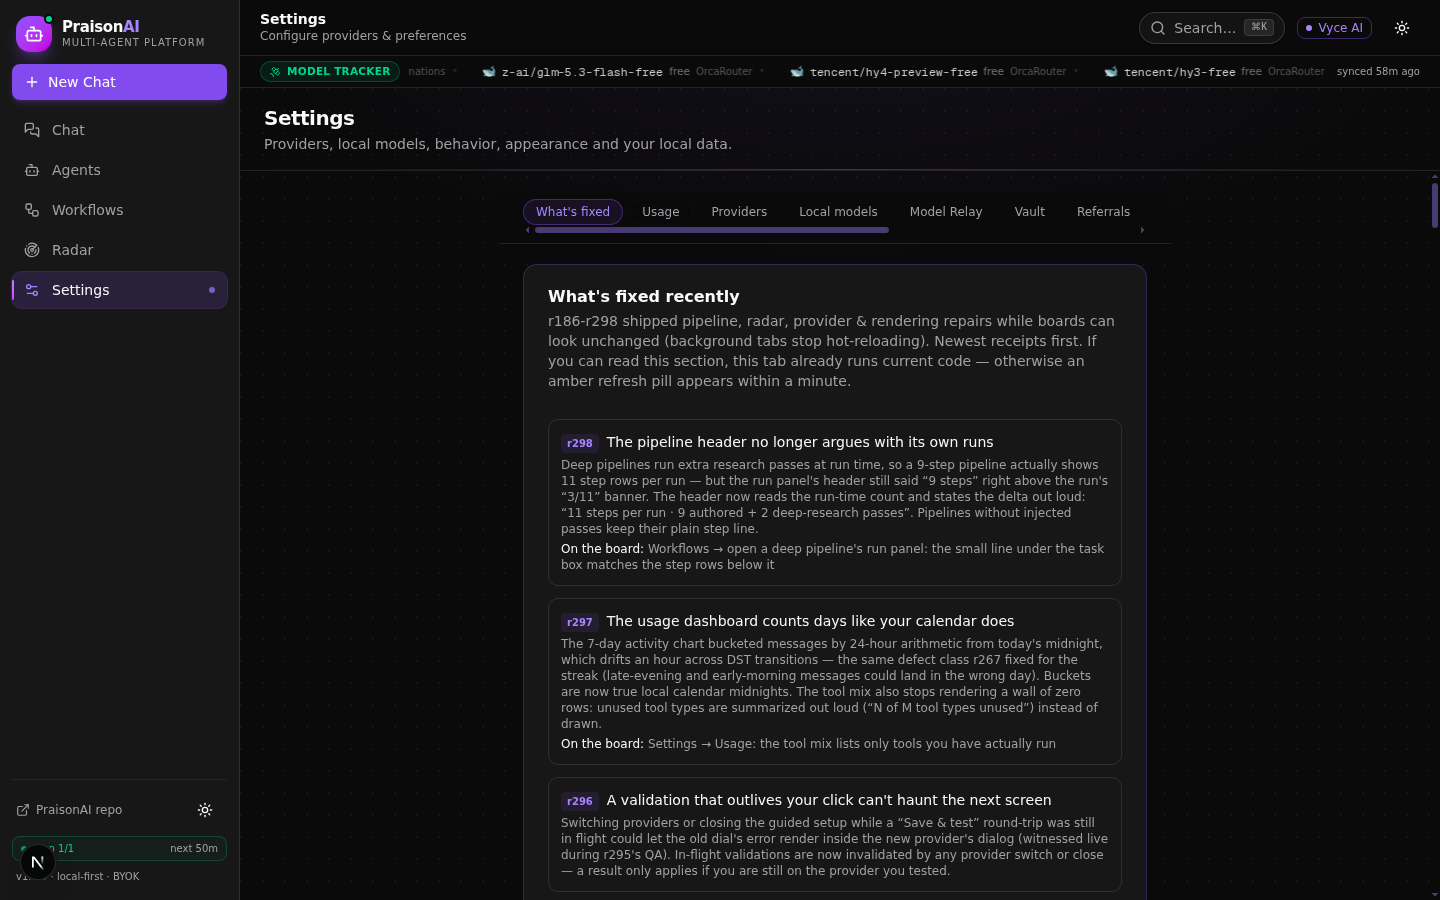
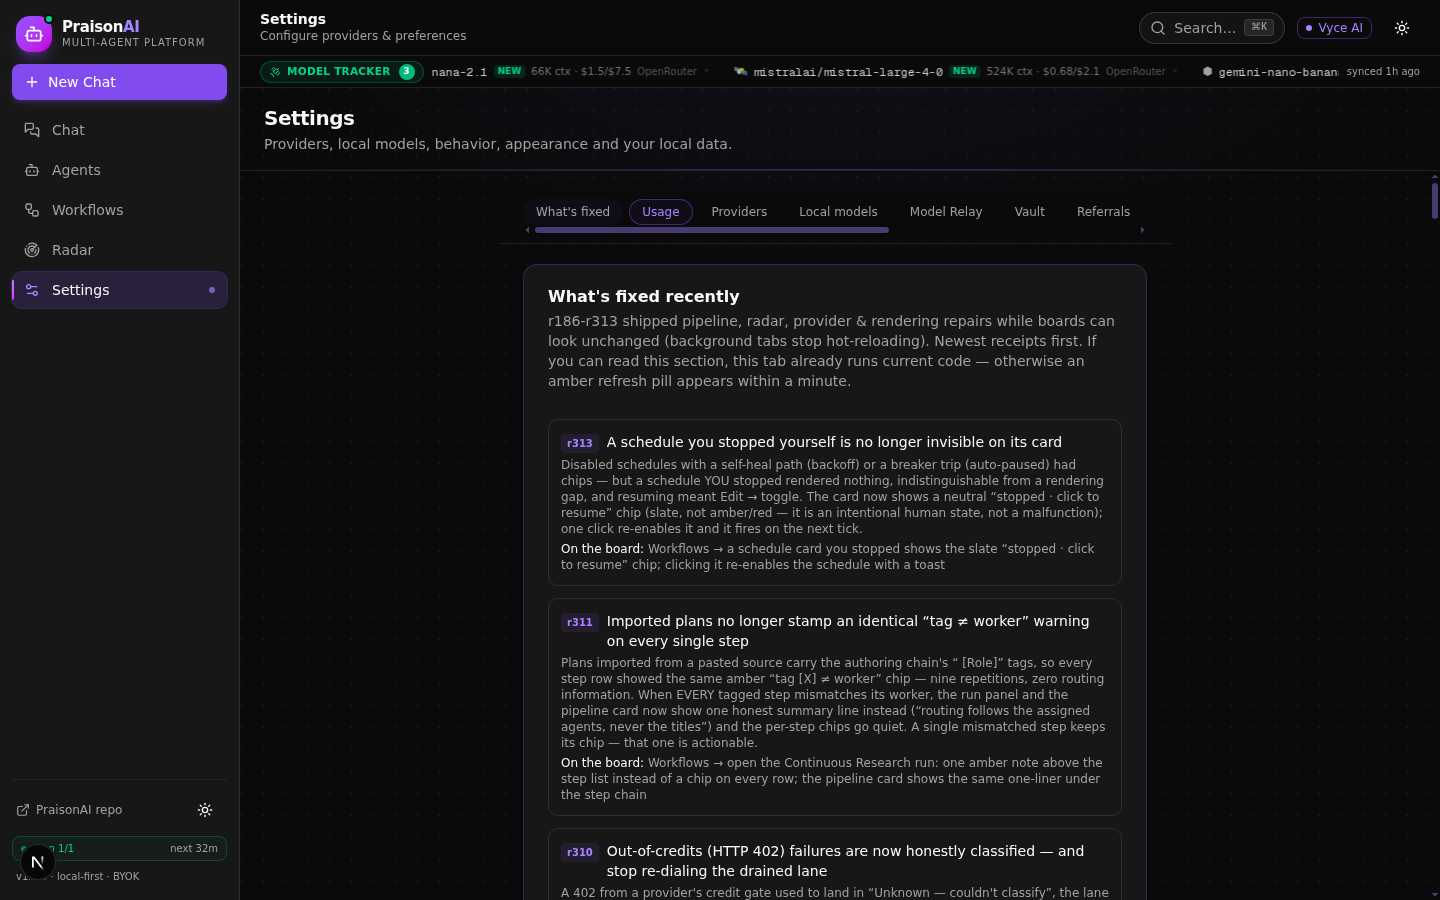
snapshot: 2026-10-07T01:28:48Z auto-backup

diff --git a/src/components/praison/workflows/workflows-view.tsx b/src/components/praison/workflows/workflows-view.tsx
@@ -1990,6 +1990,29 @@ export function WorkflowsView() {
                           auto-paused · click to resume
                         </button>
                       )}
+                      {wf.schedule && !wf.schedule.enabled && wf.schedule.autoResumeAt == null && (wf.schedule.failStreak ?? 0) < 2 && (
+                        // r313: the USER-stopped state — disabled with no
+                        // self-heal path and no breaker trip. Before this chip
+                        // the card was silent here: nothing distinguished
+                        // "stopped on purpose" from "is this broken?", and
+                        // resuming meant Edit → toggle. Same one-click resume
+                        // handler as the backoff/auto-paused chips; neutral
+                        // slate tone = intentional human state, not a
+                        // malfunction (amber self-heals, red is the breaker).
+                        <button
+                          type="button"
+                          onClick={(e) => {
+                            e.stopPropagation();
+                            resumeSchedule(wf);
+                          }}
+                          title="Stopped — this schedule is disabled and nothing fires until you resume it. Click to resume: it re-enables and fires on the next 10s tick while the tab is open."
+                          data-testid="stopped-schedule-chip"
+                          className="inline-flex cursor-pointer items-center gap-1.5 rounded-full border border-zinc-500/40 bg-zinc-500/10 px-2 py-0.5 text-[10px] font-medium text-zinc-600 transition-colors hover:bg-zinc-500/20 dark:text-zinc-300"
+                        >
+                          <PauseCircle className="h-3 w-3" />
+                          stopped · click to resume
+                        </button>
+                      )}
                       <Button size="sm" onClick={() => openRun(wf)}>
                         <Play className="h-3.5 w-3.5" />
                         Run

diff --git a/src/components/praison/settings/whats-fixed.tsx b/src/components/praison/settings/whats-fixed.tsx
@@ -295,6 +295,14 @@ const FIXES: FixNote[] = [
     lookFor:
       "Workflows → open the Continuous Research run: one amber note above the step list instead of a chip on every row; the pipeline card shows the same one-liner under the step chain",
   },
+  {
+    round: "r313",
+    title: "A schedule you stopped yourself is no longer invisible on its card",
+    detail:
+      "Disabled schedules with a self-heal path (backoff) or a breaker trip (auto-paused) had chips — but a schedule YOU stopped rendered nothing, indistinguishable from a rendering gap, and resuming meant Edit → toggle. The card now shows a neutral “stopped · click to resume” chip (slate, not amber/red — it is an intentional human state, not a malfunction); one click re-enables it and it fires on the next tick.",
+    lookFor:
+      "Workflows → a schedule card you stopped shows the slate “stopped · click to resume” chip; clicking it re-enables the schedule with a toast",
+  },
 ];
 
 // r294: the covered range is DERIVED from FIXES (first → last entry) instead

diff --git a/worklog.md b/worklog.md
@@ -8333,3 +8333,31 @@ Verification result: PASS
 Open risks: carried: clipboard SUCCESS toast inferred; r241 markdown external-image CSP; Chrome Ctrl+1-8; ZAI abort gap (r251); vault consume round-trip live-unverified; git push fork 128 environmental; 8 lib modules still "use client" (policed by qa-iso-boundary); orca credit drain is the user's live constraint (top up or save a second non-orca key). New: regenerate/edit-resend/answer-as INTERACTION paths have no dedicated suite — the dep change is identity-only and tsc-clean, but a manual click-through is cheap insurance; UserBubble remains unmemoized (now measurable with the probe if ever worth it).
 Blockers: none
 Next recommended action: r313 — (1) FIRST read any user report. (2) Verify HEAD lineage (expect the r312 snapshot or successor). (3) If a run failed, confirm the recovery card names its real class (billing/timeout/network). (4) Otherwise ONE small item, rotate surface: (a) Morning Briefing card stopped-vs-failed resume affordance (carried twice); (b) r293 perf instrumentation follow-up if user reports chat jank (probe now exists); (c) docs pass on a non-LOCAL_AUTOMATION doc. (5) Standing: qa:tsc + CANONICAL bun run lint; worklog append BEFORE snapshot; no ternary-statement asserts; receipts for user-visible changes; SMALL commands.
+
+## r313 — stopped-schedule affordance: the "you stopped this yourself" card is no longer silent (2026-10-07, Job 424432)
+
+Task ID: r313
+Agent: main (platform dev agent)
+Task: Handoff option (a), carried twice — Morning Briefing-style schedule cards: the stopped-vs-failed resume affordance. No user report this round; health 200 in 0.04s; HEAD d6197732b = r312 snapshot successor (data-only backup), tree clean.
+
+Work Log:
+- DIAGNOSIS: the schedule card's pause-family chips cover backoff (amber, self-heals, autoResumeAt set), auto-paused (red, breaker, failStreak ≥ 2) and enabled (emerald next-fire) — but a USER-stopped schedule (disabled, no autoResumeAt, failStreak < 2) rendered NOTHING: indistinguishable from a rendering gap, and resuming meant Edit → toggle. scheduleEvidence already returns null for disabled schedules, so nothing lied — the card just said nothing.
+- SHIPPED (workflows-view.tsx): slate "stopped · click to resume" chip for exactly that state, wired to the SAME one-click resumeSchedule handler as the other two chips (re-enable + failStreak 0 + autoResumeAt cleared + toast). Tone doctrine now complete: amber = self-heals, red = breaker tripped, slate = intentional human state. Conditions are mutually exclusive with the auto-paused chip (failStreak < 2 vs ≥ 2) and the backoff chip (autoResumeAt null vs set).
+- Receipt r313 appended to whats-fixed.tsx FIXES (chronological append; derived range label auto-updates).
+- SHIPPED scripts/cdp-qa-stopped-chip.mjs: seeds a stopped schedule by CLONING a real persisted workflow for render fidelity (fallback minimal shape; DIAG printed — this QA profile had none, fallback rendered fine), reloads the board, and witnesses: S2 chip renders AND chip count === store-derived stopped count (mutual exclusivity / no over-render), S3 ONE CLICK → store truth enabled+streak0+noAutoResume AND "Schedule resumed" toast, S4 chip count tracks the store after resume, S5 byte-for-byte snapshot restore.
+- Verification: npx tsc --noEmit 0; canonical bun run lint 0 errors / 33 baseline warnings; cdp-qa-stopped-chip 6/6; cdp-qa-deep-pause-chip 6/6 (chip-family regression, read-only sweep); cdp-qa-whatsfixed-order 4/4 (newest r313, derived range 186-r313 intact).
+- No chat files touched (r312 surface left alone per rotation doctrine).
+
+Stage Summary:
+- Every disabled schedule card now names its state and offers the matching one-click action: backoff (auto-resumes, click to hurry it), auto-paused (breaker, click to reset), stopped (you did this, click to undo). No silent cards left in the pause family.
+
+Round Handoff:
+Round ID: r314
+Task owner: main (platform dev agent)
+Scope completed: stopped-schedule chip + one-click resume (card affordance parity across the whole pause family), r313 receipt, dedicated 6-leg in-vivo suite.
+User-visible changes: a schedule you stopped shows a slate "stopped · click to resume" chip on its Workflows card; one click re-enables it with a toast. Previously: nothing.
+Verification steps: node scripts/cdp-qa-stopped-chip.mjs (6/6); node scripts/cdp-qa-deep-pause-chip.mjs (6/6); node scripts/cdp-qa-whatsfixed-order.mjs (4/4); npx tsc --noEmit (0); bun run lint (0/33).
+Verification result: PASS
+Open risks: carried: clipboard SUCCESS toast inferred; r241 markdown external-image CSP; Chrome Ctrl+1-8; ZAI abort gap (r251); vault consume round-trip live-unverified; git push fork 128 environmental; 8 lib modules still "use client" (policed by qa-iso-boundary); orca credit drain is the user's live constraint (top up or save a second non-orca key); regenerate/edit-resend/answer-as interaction click-through still owed since r312's dep change (tsc-clean, identity-only). New: none this round (one chip + suite).
+Blockers: none
+Next recommended action: r314 — (1) FIRST read any user report. (2) Verify HEAD lineage (expect the r313 snapshot or successor). (3) If a run failed, confirm the recovery card names its real class and the board chip matches reality. (4) Otherwise ONE small item, rotate surface (workflows got r311+r313 — prefer elsewhere): (a) manual click-through of regenerate/edit-resend/answer-as to retire the r312 interaction risk; (b) UserBubble memo micro-pass measured with the r312 probe (only if chat jank ever reported); (c) docs pass on a non-LOCAL_AUTOMATION doc; (d) vault-epic increment (r123+). (5) Standing: qa:tsc + CANONICAL bun run lint; worklog append BEFORE snapshot; no ternary-statement asserts; receipts for user-visible changes; SMALL commands.
